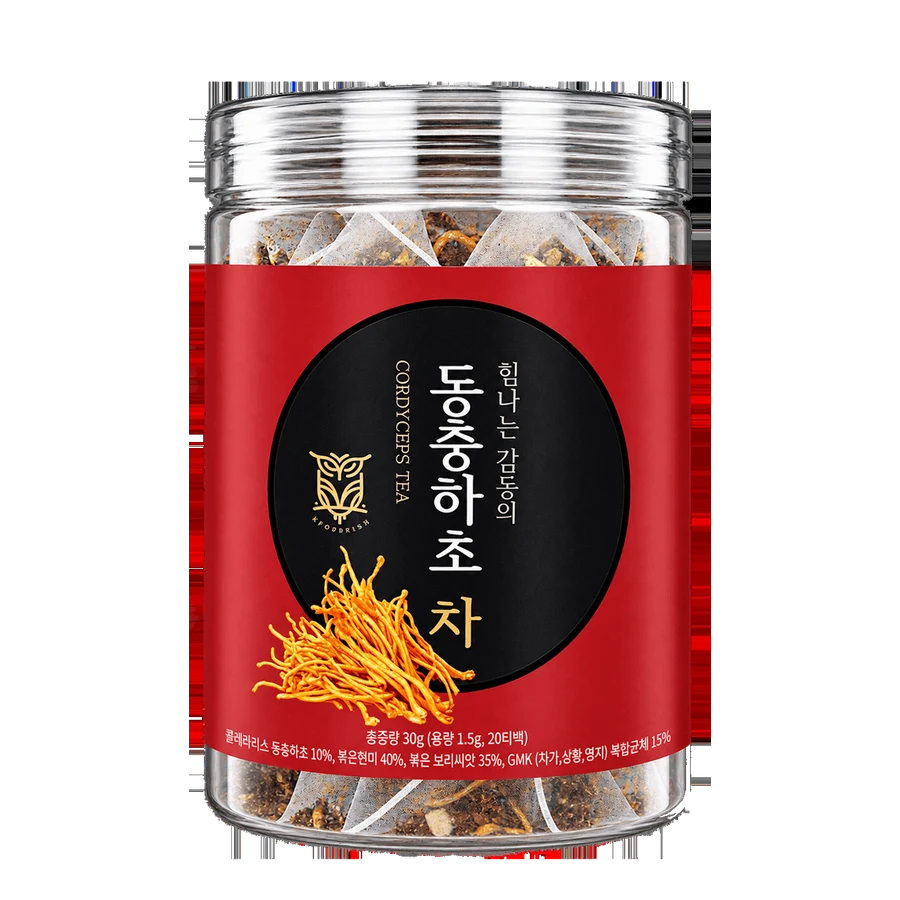
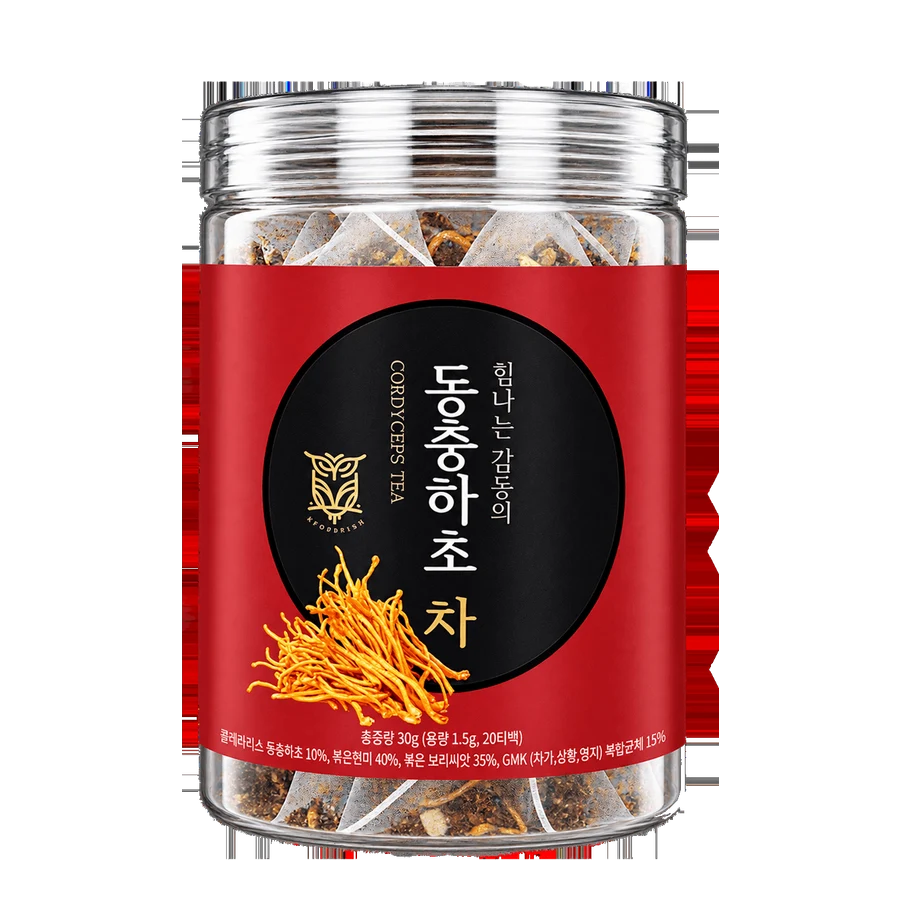
Tea jars trimmed to the jar; mala packets from the store's packet-only photos

diff --git a/server.ts b/server.ts
@@ -16363,7 +16363,7 @@ async function useShopifyPhotos(): Promise<number> {
     const shop = [byHandle.get(a.id), byName.get(normTitle(a.name))].find(hasCut);
     if (!shop) continue;
     // The ?v= changes whenever the cutouts are redone, so browsers don't keep showing the old picture.
-    const cut = `/assets/products/cut/${cutName(shop.handle)}.webp?v=4`;
+    const cut = `/assets/products/cut/${cutName(shop.handle)}.webp?v=5`;
     if (a.image === cut) continue;
     await catalog.setFoodImage(a.id, cut);
     changed++;

diff --git a/sw.js b/sw.js
@@ -3,7 +3,7 @@
 // straight away; a cached copy is only used without a connection. API calls (cart checkout,
 // account, orders) are never cached, and the back office has its own worker (admin-sw.js).
 
-const CACHE = "shop-v449-mimi33";
+const CACHE = "shop-v449-mimi34";
 const SHELL = ["/", "/shop", "/offline", "/styles.css", "/js/app.js", "/js/data.js", "/site.webmanifest", "/assets/logo.svg", "/assets/icon-192.png"];
 const STATIC = /\.(html|css|js|svg|png|jpe?g|webp|webmanifest)$/;
 
